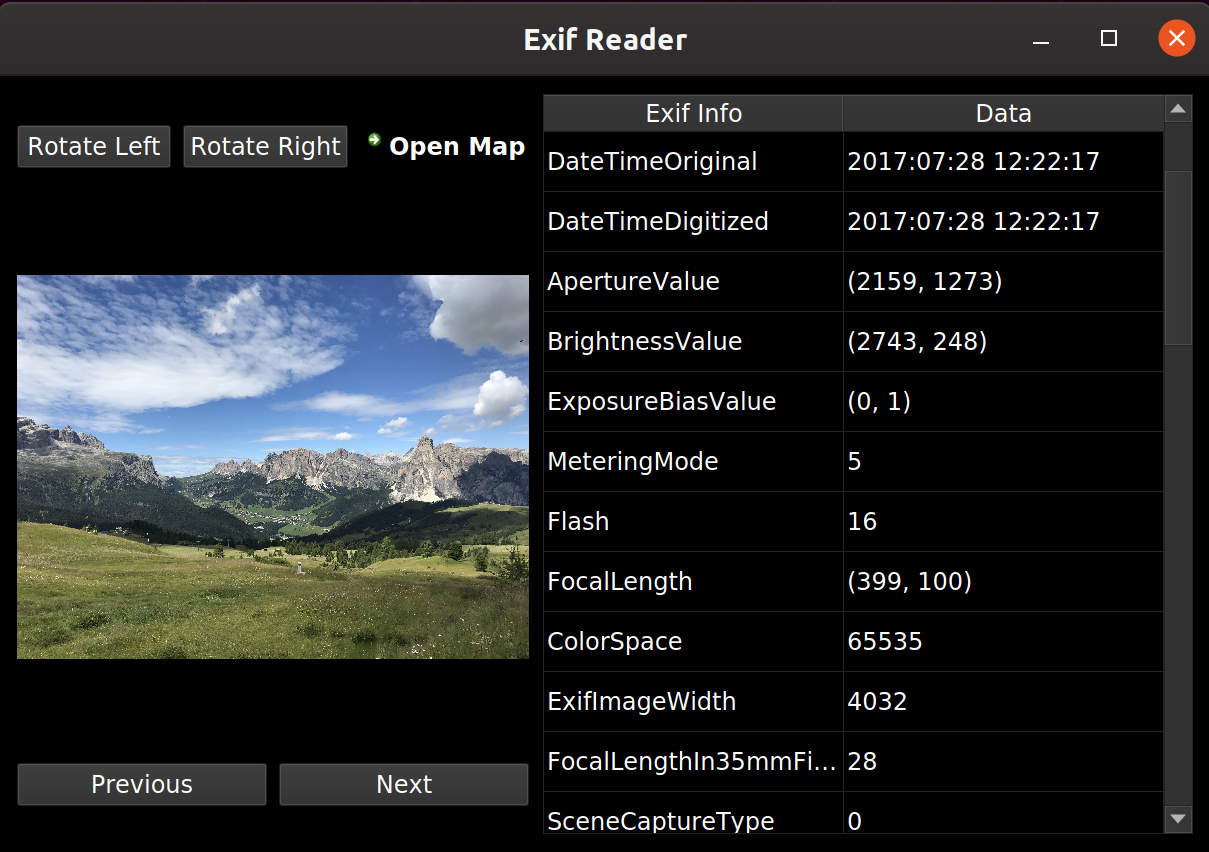
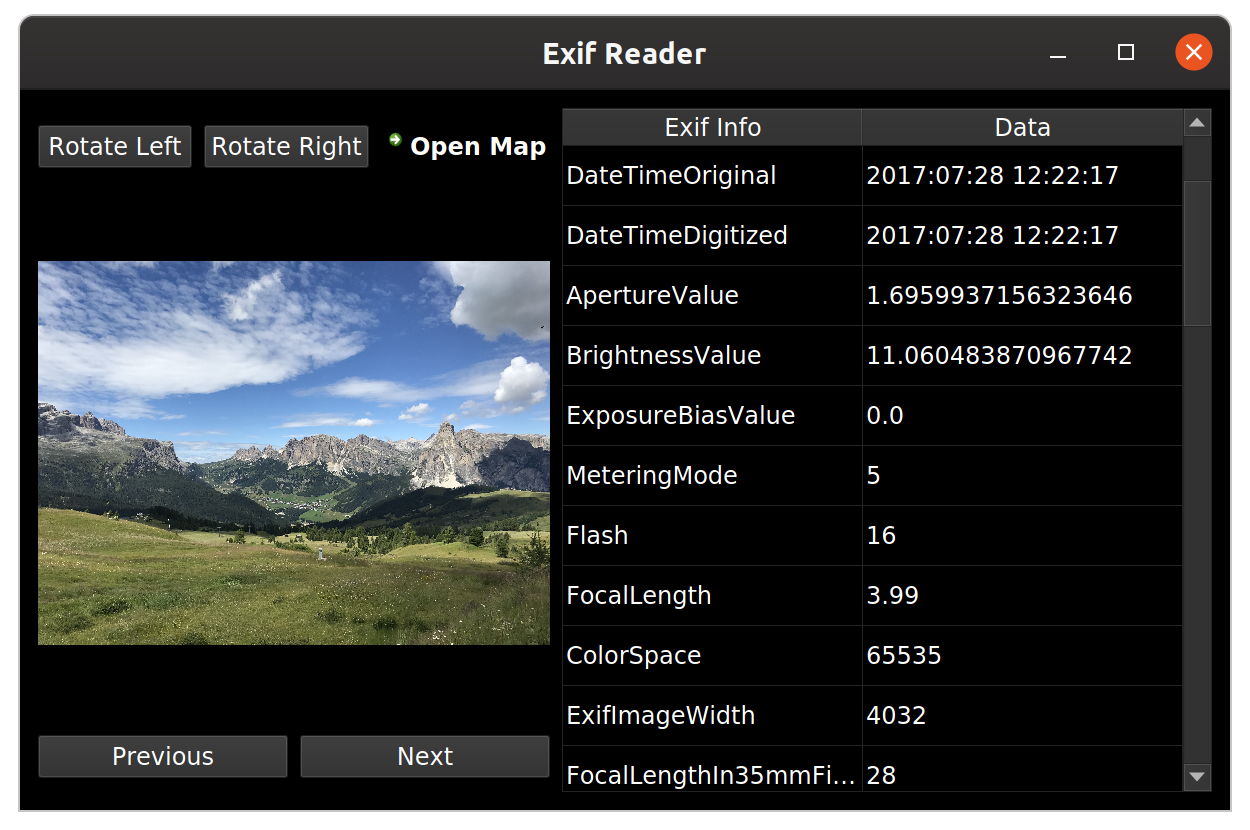
Modificati valori exif da visualizzare

diff --git a/utils.py b/utils.py
@@ -1,6 +1,8 @@
 import PIL.Image
 import PIL.ExifTags
 
+from fractions import Fraction
+
 
 def getExif(imagePath):
     try:
@@ -10,7 +12,7 @@ def getExif(imagePath):
             for k, v in img._getexif().items()
             if k in PIL.ExifTags.TAGS
         }
-        return exif
+        return cleanExif(exif)
     except:
         return None
 
@@ -23,3 +25,19 @@ def convertToDegree(value):
     s = float(s[0]) / float(s[1])
 
     return d + (m / 60.0) + (s / 3600.0)
+
+
+def cleanExif(exif):
+    try:
+        exif['ShutterSpeedValue'] = str(Fraction(exif['ShutterSpeedValue'][0], exif['ShutterSpeedValue'][1]))
+        exif['ApertureValue'] = float(exif['ApertureValue'][0]) / float(exif['ApertureValue'][1])
+        exif['BrightnessValue'] = float(exif['BrightnessValue'][0]) / float(exif['BrightnessValue'][1])
+        exif['ExposureBiasValue'] = float(exif['ExposureBiasValue'][0]) / float(exif['ExposureBiasValue'][1])
+        exif['FocalLength'] = float(exif['FocalLength'][0]) / float(exif['FocalLength'][1])
+        exif['ExposureTime'] = str(Fraction(exif['ExposureTime'][0], exif['ExposureTime'][1]))
+        exif['XResolution'] = float(exif['XResolution'][0]) / float(exif['XResolution'][1])
+        exif['FNumber'] = float(exif['FNumber'][0]) / float(exif['FNumber'][1])
+        exif['YResolution'] = float(exif['YResolution'][0]) / float(exif['YResolution'][1])
+        return exif
+    except:
+        return exif
